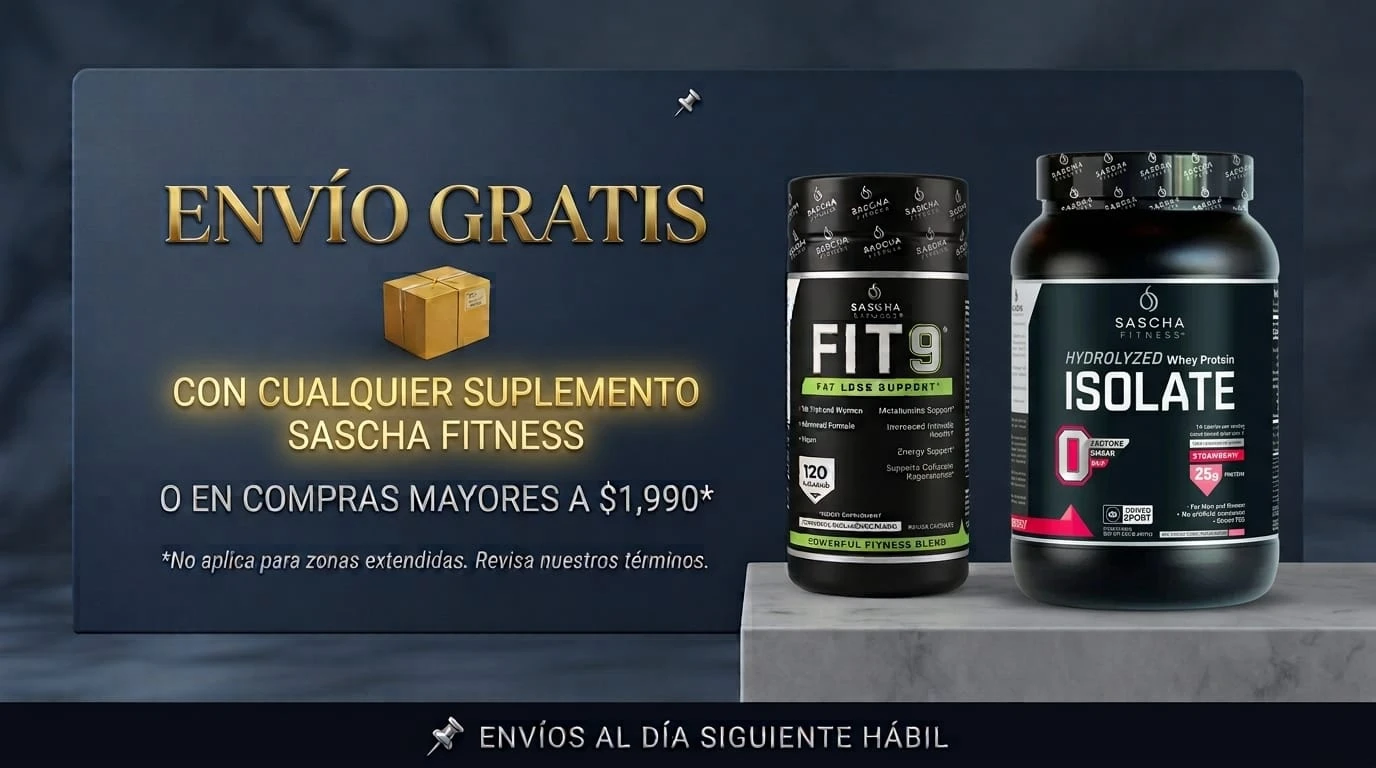
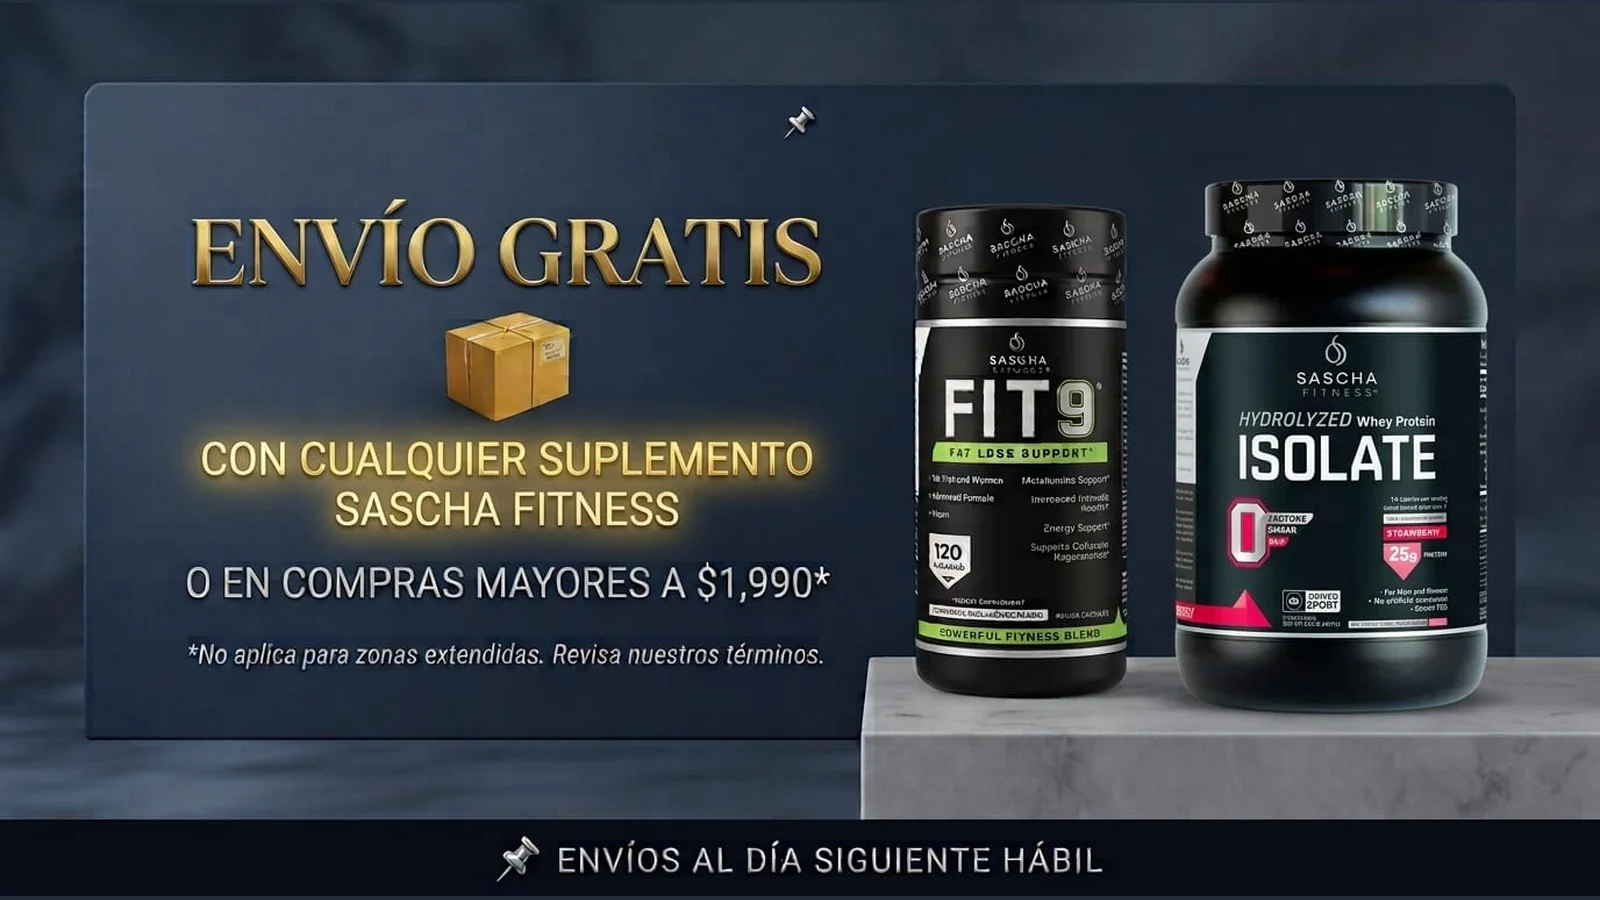
carrusel.zip

diff --git a/index.html b/index.html
@@ -39,7 +39,7 @@
         .nav-btn.active { background: #a3d334; color: #1c2b20; border-color: #a3d334; }
 
         .carousel-container { max-width: 100%; margin: 15px 0; background: white; border-radius: 12px; overflow: hidden; box-shadow: 0 4px 15px rgba(0,0,0,0.1); }
-        .carousel { position: relative; width: 100%; height: 380px; overflow: hidden; }
+        .carousel { position: relative; width: 100%; aspect-ratio: 16 / 9; max-height: 420px; overflow: hidden; }
         .carousel-item { display: none; width: 100%; height: 100%; position: absolute; }
         .carousel-item.active { display: flex; align-items: center; justify-content: center; color: white; font-size: 1.8em; font-weight: bold; text-shadow: 2px 2px 6px rgba(0,0,0,0.4); }
         .carousel-item:nth-child(1) { background: linear-gradient(135deg, #24478f 0%, #16305f 100%); }
@@ -171,7 +171,6 @@
 
         @media (max-width: 768px) {
             header h1 { font-size: 1.3em; }
-            .carousel { height: 300px; }
             .products-grid { grid-template-columns: repeat(auto-fill, minmax(150px, 1fr)); gap: 10px; }
             .cart-floating { position: fixed; bottom: 16px; right: 12px; left: auto; width: auto; max-width: 74%;
                 margin: 0; padding: 12px; max-height: 40vh; overflow-y: auto; z-index: 900; }
@@ -198,10 +197,10 @@
         #btnMenu.abierto .raya:nth-child(3){ transform:translateY(-6px) rotate(-45deg); }
     
         /* ===== Carrusel proporcionado a la pantalla ===== */
-        .carousel { height: 380px; transition: height .25s ease; }
+        .carousel { aspect-ratio: 16 / 9; height: auto; max-height: 420px; }
+        @media (max-width: 860px){ .carousel { max-height: 300px; } }
         .carousel-item.active { display: flex !important; align-items: center; justify-content: center; }
         .carousel-item img { width: 100%; height: 100%; object-fit: contain; object-position: center; }
-        @media (max-width: 860px){ .carousel { height: 210px; } }
     
         .nuevo-badge { position:absolute; top:10px; right:10px; z-index:3; background:#a3d334; color:#1c2b20;
                        font-size:0.75em; font-weight:800; padding:4px 12px; border-radius:12px;
@@ -251,12 +250,12 @@
 <!-- CARRUSEL -->
 <div class="carousel-container">
 <div class="carousel">
-<div class="carousel-item active" onclick="showSection('sascha')" style="cursor: pointer; background: #0a0c0a !important; padding: 0; align-items:center; justify-content:center;">
+<div class="carousel-item active" onclick="showSection('sascha')" style="cursor: pointer; background: #000000 !important; padding: 0; align-items:center; justify-content:center;">
 <img alt="FIT 9 · 5% de descuento con transferencia" class="poster" src="imagenes/img.webp" style="width:100%; height:100%; object-fit:contain; object-position:center; display:block; margin:0;"/>
 </div>
-<div class="carousel-item" onclick="showSection('mayoreo')" style="background: #010511; align-items: center; justify-content: center; align-items:center; justify-content:center;"><img alt="Precios especiales de mayoreo" class="poster" loading="lazy" src="imagenes/slide-mayoreo.webp" style="width:100%; height:100%; object-fit:contain; object-position:center; display:block; margin:0;"/></div>
-<div class="carousel-item" onclick="showSection('checkout')" style="background: #072620; align-items: center; justify-content: center; align-items:center; justify-content:center;"><img alt="5% de descuento pagando por transferencia" class="poster" loading="lazy" src="imagenes/slide-transferencia.webp" style="width:100%; height:100%; object-fit:contain; object-position:center; display:block; margin:0;"/></div>
-<div class="carousel-item" onclick="showSection('contacto')" style="background: #0d1626; align-items: center; justify-content: center; align-items:center; justify-content:center;"><img alt="Envío gratis con cualquier suplemento Sascha Fitness" class="poster" loading="lazy" src="imagenes/slide-envio.webp" style="width:100%; height:100%; object-fit:contain; object-position:center; display:block; margin:0;"/></div>
+<div class="carousel-item" onclick="showSection('mayoreo')" style="background: #020a17; align-items: center; justify-content: center; align-items:center; justify-content:center;"><img alt="Precios especiales de mayoreo" class="poster" loading="lazy" src="imagenes/slide-mayoreo.webp" style="width:100%; height:100%; object-fit:contain; object-position:center; display:block; margin:0;"/></div>
+<div class="carousel-item" onclick="showSection('checkout')" style="background: #0d2a21; align-items: center; justify-content: center; align-items:center; justify-content:center;"><img alt="5% de descuento pagando por transferencia" class="poster" loading="lazy" src="imagenes/slide-transferencia.webp" style="width:100%; height:100%; object-fit:contain; object-position:center; display:block; margin:0;"/></div>
+<div class="carousel-item" onclick="showSection('contacto')" style="background: #232e3d; align-items: center; justify-content: center; align-items:center; justify-content:center;"><img alt="Envío gratis con cualquier suplemento Sascha Fitness" class="poster" loading="lazy" src="imagenes/slide-envio.webp" style="width:100%; height:100%; object-fit:contain; object-position:center; display:block; margin:0;"/></div>
 <button class="carousel-button prev" onclick="changeSlide(-1)">❮</button>
 <button class="carousel-button next" onclick="changeSlide(1)">❯</button>
 <div class="carousel-indicators">
@@ -4129,14 +4128,11 @@
     var ancho = car.clientWidth;
     if(!ancho) return;
 
-    var alto;
-    if(img && img.naturalWidth && img.naturalHeight){
-      alto = ancho * (img.naturalHeight / img.naturalWidth);
-    } else {
-      alto = ancho * 0.52;
-    }
-    var tope = window.innerWidth > 860 ? 420 : 300;
-    car.style.height = Math.round(Math.min(alto, tope)) + 'px';
+    /* Los cuatro carteles son 1600x900, así que la altura la pone el CSS
+       con aspect-ratio: todos del mismo tamaño en cualquier pantalla.
+       Aquí sólo se limpia cualquier altura vieja que haya quedado puesta. */
+    if(car.style.height) car.style.height = '';
+    if(img && !img.naturalWidth) return;
   }
 
   window.ajustarCarrusel = ajustar;
